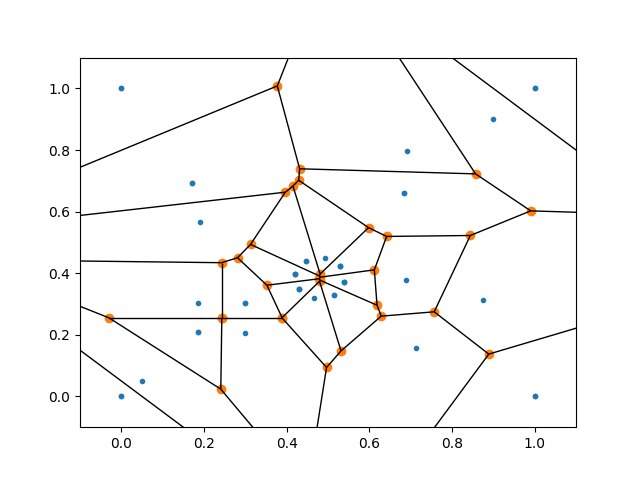
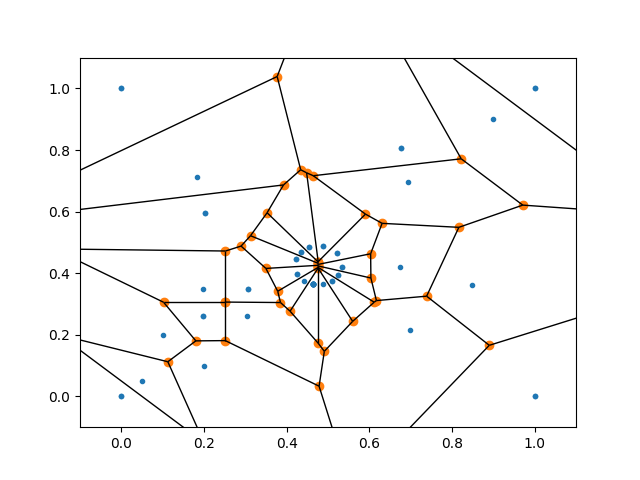
update: add support for line segment
- add line segment support
- add polygon support on generalized voronoi
- changed result image

diff --git a/voronoi/voronoi.py b/voronoi/voronoi.py
@@ -31,13 +31,17 @@ class GeneralizedVoronoi:
 
     def __init__(self) -> None:
         self.__points = []
+        self.__lines = []
         self.__triangles = []
         self.__boundaries = []
 
         self.__triangle_points = []
         self.__boudnary_points = []
+        self.__line_points = []
+
         self.__triangle_lined_points = []
         self.__boundary_lined_points = []
+        self.__line_lined_points = []
 
         self.__chains = []
 
@@ -47,6 +51,16 @@ class GeneralizedVoronoi:
     def add_points(self, points: list) -> None:
         for point in points:
             self.add_point(point)
+
+    def add_line(self, line: Line) -> None:
+        self.__lines.append(line)
+        self.__line_lined_points += line.generate_line()
+        for ele in line.points:
+            self.__line_points.append(ele)
+    
+    def add_lines(self, lines: list[Line]) -> None:
+        for line in lines:
+            self.add_line(line)
     
     def add_triangle(self, triangle: Triangle) -> None:
         self.__triangles.append(triangle)
@@ -67,6 +81,15 @@ class GeneralizedVoronoi:
     def add_boundaries(self, boundaries: list[Line]) -> None:
         for boundary in boundaries:
             self.add_boundary(boundary)
+    
+    def add_polygon(self, polygon: list) -> None:
+        triangles = triangulation(polygon)
+        for vertices in triangles:
+            self.add_triangle(Triangle(vertices))
+    
+    def add_polygons(self, polygons: list) -> None:
+        for polygon in polygons:
+            self.add_polygon(polygon)
 
     def __run_voronoi(self, points) -> None:
         self.__vor = Voronoi(points=points)
@@ -74,12 +97,14 @@ class GeneralizedVoronoi:
     def run_non_lined(self) -> Result:
         self.__run_voronoi(self.__boudnary_points + 
                            self.__triangle_points +
+                           self.__line_points +
                            self.__points)
         return self.__generate_result()
     
     def run_non_deleted(self) -> Result:
         self.__run_voronoi(self.__boundary_lined_points + 
                            self.__triangle_lined_points +
+                           self.__line_lined_points + 
                            self.__points)
         return self.__generate_result()
     
@@ -87,6 +112,7 @@ class GeneralizedVoronoi:
         # run voronoi
         self.__run_voronoi(self.__boundary_lined_points + 
                            self.__triangle_lined_points +
+                           self.__line_lined_points +
                            self.__points)
 
         # calculate unreachable vertices and ridges
@@ -330,6 +356,7 @@ class GeneralizedVoronoi:
     # calculate ridges which are related to deleted vertices and outside
     def __ridges_to_delete(self, vertex_vec) -> list:
         to_delete = []
+        vertices = self.__vor.vertices
 
         for i in range(len(self.__vor.ridge_vertices)):
             rv = self.__vor.ridge_vertices[i]
@@ -340,8 +367,18 @@ class GeneralizedVoronoi:
                 continue
 
             # if ridge contains deleted vertex, delete ridge
+            deleted = False
             for ver in vertex_vec:
                 if rv[0] == ver or rv[1] == ver:
+                    to_delete.append(i)
+                    deleted = True
+                    break
+            if deleted: continue
+
+            # if ridge intersects with line, delete ridge
+            for line in self.__lines:
+                l_2 = [vertices[rv[0]], vertices[rv[1]]]
+                if line.is_intersecting(l_2):
                     to_delete.append(i)
                     break
         

diff --git a/voronoi/geometry.py b/voronoi/geometry.py
@@ -1,6 +1,7 @@
 import numpy as np
 from numba import jit, njit
 import numba.np.extensions as nbnp
+import tripy
 
 
 # get length of 2d vector
@@ -81,6 +82,15 @@ def counter_clockwise(_1, _2, _3) -> int:
         # if cross < 0 than it's cw
         return -1
 
+@njit(cache=True, fastmath=True)
+def is_intersecting(_1, _2) -> bool:
+    # ccw(p1, p2, p3) * ccw(p1, p2, p4)
+    if counter_clockwise(_1[0], _1[1], _2[0]) * counter_clockwise(_1[0], _1[1], _2[1]) < 0:
+        # ccw(p3, p4, p1) * ccw(p3, p4, p2)
+        if counter_clockwise(_2[0], _2[1], _1[0]) * counter_clockwise(_2[0], _2[1], _1[1]) < 0:
+            return True
+    return False
+
 
 # line class
 class Line:
@@ -141,6 +151,10 @@ class Line:
             current += step_vec
         
         return result
+
+    def is_intersecting(self, line) -> bool:
+        return is_intersecting(self.points, line)
+
 
 
 # triangle class
@@ -206,3 +220,14 @@ class Triangle(Line):
             if c_1 * c_2 <= 0.0:
                 return False
         return True
+
+
+def triangulation(polygon) -> list[Triangle]:
+    triangles = []
+    triangulation = tripy.earclip(polygon)
+    for triangle in triangulation:
+        vertices = []
+        for vertex in triangle:
+            vertices.append(list(vertex))
+        triangles.append(vertices)
+    return triangles

diff --git a/voronoi/astar.py b/voronoi/astar.py
@@ -1,7 +1,6 @@
 import matplotlib.pyplot as plt
 from queue import PriorityQueue
 from matplotlib.collections import LineCollection
-from numba import njit
 
 from voronoi.voronoi import Result
 from voronoi.dictionary import IndexDict
@@ -110,22 +109,11 @@ class Astar:
                 if i in ridge: continue
                 _1 = np.array([point, vertices[i]])
                 _2 = np.array([vertices[ridge[0]], vertices[ridge[1]]])
-                if self.__is_intersecting(_1, _2):
+                if is_intersecting(_1, _2):
                     intersecting = True
                     break
             if not intersecting: adjacent.append(i)
         return adjacent
-
-    # find out whether two lines are intersecting
-    @staticmethod
-    @njit(cache=True)
-    def __is_intersecting(_1, _2) -> bool:
-        # ccw(p1, p2, p3) * ccw(p1, p2, p4)
-        if counter_clockwise(_1[0], _1[1], _2[0]) * counter_clockwise(_1[0], _1[1], _2[1]) < 0:
-            # ccw(p3, p4, p1) * ccw(p3, p4, p2)
-            if counter_clockwise(_2[0], _2[1], _1[0]) * counter_clockwise(_2[0], _2[1], _1[1]) < 0:
-                return True
-        return False
 
     def generate_plot(self) -> None:
         fig, ax = plt.subplots()
